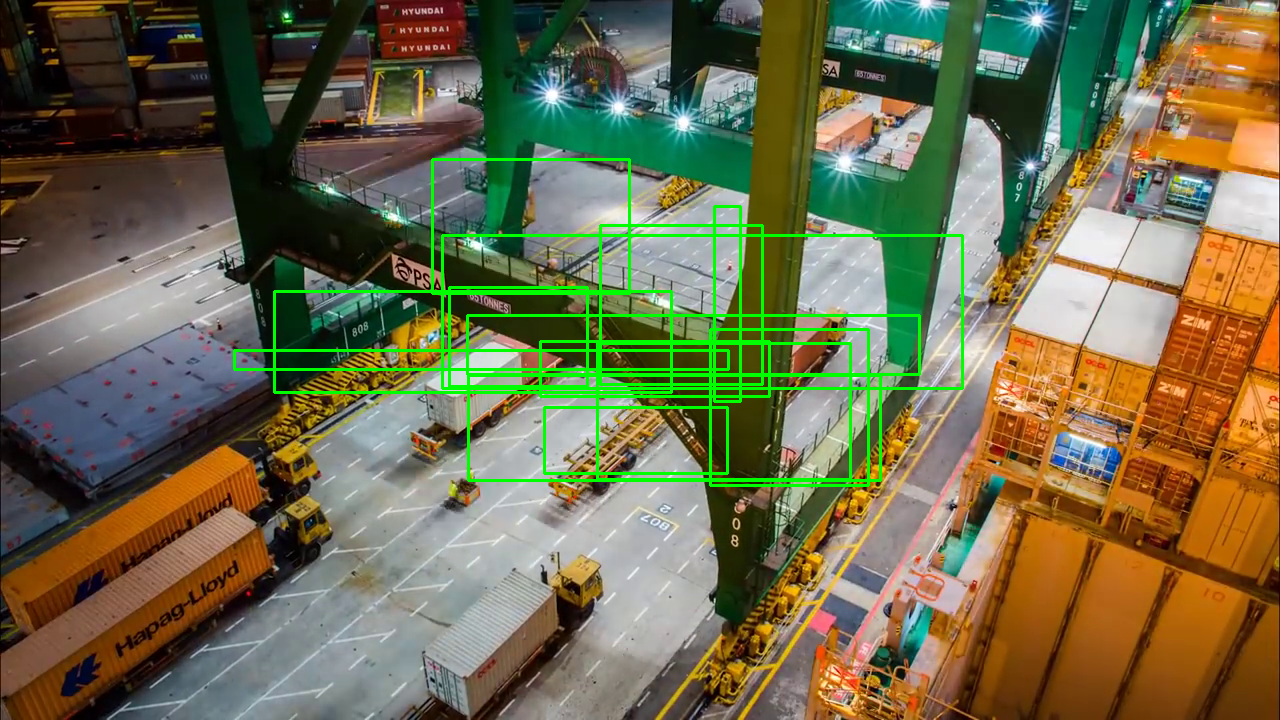
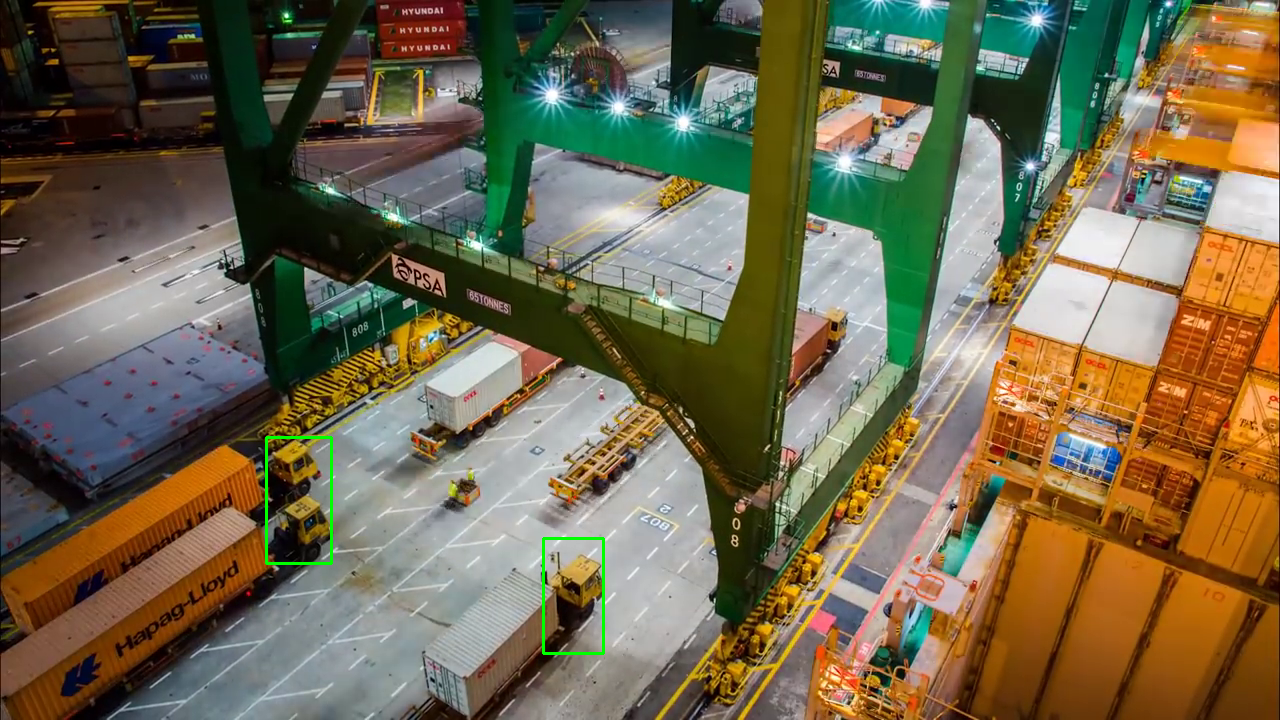
images added, models worked, readme updated with model inference code

diff --git a/congestion-cargo-yards/main.py b/congestion-cargo-yards/main.py
@@ -77,9 +77,14 @@ def build_argparser():
     parser.add_argument("-asp", "--aspect", help="", type=bool, default=False)
     parser.add_argument("-it", "--is_threshold", help="", type=bool, default=False)
     parser.add_argument("-gs", "--grayscale", help="", type=bool, default=False)
-    args.add_argument("-iout", "--iou_threshold", help="Optional. Intersection over union threshold for overlapping "
+    parser.add_argument("--dict_export", help="", type=bool, default=False)
+    parser.add_argument("--keep_aspect_ratio", help="", type=bool, default=True)
+    parser.add_argument("--yolo", help="", type=bool, default=False)
+    parser.add_argument("-iout", "--iou_threshold", help="Optional. Intersection over union threshold for overlapping "
             "detections filtering", default=0.4, type=float)
-    args.add_argument("-t", "--prob_threshold", help="Optional. Probability threshold for detections filtering",
+    parser.add_argument("--relative_overlap_area", help="Optional. IoU relative overlap area", default=0.4, type=float)
+    parser.add_argument("--relative_union_area", help="Optional. IoU relative union area", default=0.4, type=float)
+    parser.add_argument("-t", "--prob_threshold", help="Optional. Probability threshold for detections filtering",
             default=0.5, type=float)
     
     return parser
@@ -99,29 +104,51 @@ def calculate_threshold(frame, result, args, width, height):
     r = (result.flatten() > args.threshold).astype(bool)
     return np.sum(r)
 
+def finalize_draw_boxes(boxes, frame, args):
+    iou = []
+    for ii, box_1 in enumerate(boxes):
+        for box_2 in boxes[ii+1:]:
+            _ratio, _num, _denom = intersection_over_union(
+                dict(zip(['xmin', 'ymin', 'xmax', 'ymax'], box_1)), 
+                dict(zip(['xmin', 'ymin', 'xmax', 'ymax'], box_2)))
+            iou.append([_ratio, _num, _denom])
+    iou = np.array(iou)
+    iou[:,1] /= iou[:,1].max()
+    iou[:,2] /= iou[:,2].max()
+    idx = np.where((iou[:,0] >= args.iou_threshold) & (iou[:,1] <= args.relative_overlap_area) \
+        & (iou[:,2] <= args.relative_union_area))[0]
+    idx = np.floor(1 + np.sqrt(1+idx*2*4)) / 2
+    idx = np.unique(idx).astype(np.int32)
+    print(idx)
+    boxes = np.array(boxes)
+    for box in boxes[idx]:
+        xmin, ymin, xmax, ymax = box
+        cv2.rectangle(frame, (xmin, ymin), (xmax, ymax), args.c, args.th)
+
+    return frame
+
 def draw_boxes(frame, result, args, width, height):
     confs = []
-    result = result.reshape(1, 425, 13, 13)
-    for i in range(13):
-        for j in range(13):
-            boxes = result[0,:,i,j]: # Output shape is 1x1x100x7
-            boxes = boxes.reshape(-1,85)
-            for box in boxes:
-                conf = box[4]
-                if conf >= args.pt:
-                    xmin = int(box[0] * width)
-                    ymin = int(box[1] * height)
-                    xmax = int(box[0] * width + box[3] * width)
-                    ymax = int(box[1] * height + box[2] * width)
-                    confs.append(conf)
-                    cv2.rectangle(frame, (xmin, ymin), (xmax, ymax), args.c, args.th)
+    boxes = []
+    for box in result[0][0]:
+        conf = box[2]
+        if conf >= args.pt:
+            xmin = int(box[3] * width)
+            ymin = int(box[4] * height)
+            xmax = int(box[5] * width)
+            ymax = int(box[6] * height)
+            confs.append(conf)
+            boxes.append((xmin, ymin, xmax, ymax))
             
-    return frame, confs
+    return frame, confs, boxes
 
 def infer_on_batch_result(infer_network, frames, args, width, height, request_id=0, 
 conf=False, threshold=False, aspect=False):
     ### TODO: Get the results of the inference request ###
-    results = infer_network.extract_output(request_id=request_id)
+    if args.dict_export:
+        results = infer_network.extract_outputs_dict(request_id=request_id)
+    else:
+        results = infer_network.extract_output(request_id=request_id)
     output_shape = 200
     thrs = []
     confidences = []
@@ -134,8 +161,12 @@ conf=False, threshold=False, aspect=False):
         if threshold:
             thr = calculate_threshold(frame, results[ii,:,:,:], args, width, height)
             thrs.append(thr)
+        elif args.yolo:
+            frame, confs = draw_yolo_bounding_boxes(results, infer_network.network, 
+            infer_network.get_input_shape()[1], infer_network.get_input_shape()[0], frame, args)
         else:
-            frame, confs = draw_boxes(frame, results[ii,:,:,:], args, width, height)
+            frame, confs, boxes = draw_boxes(frame, results[ii,:,:,:], args, width, height)
+            frame = finalize_draw_boxes(boxes, frame, args)
         frames[ii] = frame
         confidences = np.append(confidences, confs).tolist()
     
@@ -146,7 +177,10 @@ conf=False, threshold=False, aspect=False):
 def infer_on_multi_result(infer_network, frames, args, width, height, request_id=0, 
 conf=False, threshold=False, aspect=False):
     ### TODO: Get the results of the inference request ###
-    results = infer_network.extract_output(request_id=request_id)
+    if args.dict_export:
+        results = infer_network.extract_outputs_dict(request_id=request_id)
+    else:
+        results = infer_network.extract_output(request_id=request_id)
     output_shape = 200
     thrs = []
     confidences = []
@@ -160,9 +194,13 @@ conf=False, threshold=False, aspect=False):
             thr = calculate_threshold(frame, results[:,:,output_shape*ii:output_shape*ii+output_shape,:], 
             args, width, height)
             thrs.append(thr)
+        elif args.yolo:
+            frame, confs = draw_yolo_bounding_boxes(results, infer_network.network, 
+            infer_network.get_input_shape()[1], infer_network.get_input_shape()[0], frame, args)
         else:
-            frame, confs = draw_boxes(frame, results[:,:,output_shape*ii:output_shape*ii+output_shape,:], 
+            frame, confs, boxes = draw_boxes(frame, results[:,:,output_shape*ii:output_shape*ii+output_shape,:], 
         args, width, height)
+            frame = finalize_draw_boxes(boxes, frame, args)
         frames[ii] = frame
         confidences = np.append(confidences, confs).tolist()
     
@@ -173,7 +211,10 @@ conf=False, threshold=False, aspect=False):
 def infer_on_result(infer_network, frame, args, width, height, request_id=0, 
 conf=False, threshold=False, aspect=False):
     ### TODO: Get the results of the inference request ###
-    results = infer_network.extract_output(request_id=request_id)
+    if args.dict_export:
+        results = infer_network.extract_outputs_dict(request_id=request_id)
+    else:
+        results = infer_network.extract_output(request_id=request_id)
     output_shape = 200
     thrs = []
     confidences = []
@@ -186,8 +227,12 @@ conf=False, threshold=False, aspect=False):
         thr = calculate_threshold(frame, results[:,:,:,:], 
         args, width, height)
         thrs.append(thr)
+    elif args.yolo:
+        frame, confs = draw_yolo_bounding_boxes(results, infer_network.network, 
+        infer_network.get_input_shape()[3], infer_network.get_input_shape()[2], frame, args)
     else:
-        frame, confs = draw_boxes(frame, results, args, width, height)
+        frame, confs, boxes = draw_boxes(frame, results, args, width, height)
+        frame = finalize_draw_boxes(boxes, frame, args)
         confidences = np.append(confidences, confs).tolist()
     
     return frame, thrs, confidences

diff --git a/congestion-cargo-yards/yolov3_module.py b/congestion-cargo-yards/yolov3_module.py
@@ -1,3 +1,6 @@
+import numpy as np
+import cv2
+
 class YoloParams:
     # ------------------------------------------- Extracting layer parameters ------------------------------------------
     # Magic numbers are copied from yolo samples
@@ -63,8 +66,8 @@ def parse_yolo_region(predictions, resized_image_shape, original_im_shape, param
         y = (row + y) / params.side
         # Value for exp is very big number in some cases so following construction is using here
         try:
-            width = exp(width)
-            height = exp(height)
+            width = np.exp(width)
+            height = np.exp(height)
         except OverflowError:
             continue
         # Depends on topology we need to normalize sizes by feature maps (up to YOLOv3) or by input shape (YOLOv3)
@@ -115,7 +118,7 @@ def intersection_over_union(box_1, box_2):
     area_of_union = box_1_area + box_2_area - area_of_overlap
     if area_of_union == 0:
         return 0
-    return area_of_overlap / area_of_union
+    return area_of_overlap / area_of_union, area_of_overlap, area_of_union
 
 """
 https://github.com/nscalo/OpenVINO-YOLOV4/blob/master/object_detection_demo_yolov3_async.py
@@ -125,6 +128,7 @@ def draw_yolo_bounding_boxes(outputs, net, input_width, input_height, frame, arg
                             args.keep_aspect_ratio)
     objects = filter_objects(objects, args.iou_threshold, args.prob_threshold)
     origin_im_size = frame.shape[:-1]
+    confs = []
     for obj in objects:
         # Validation bbox of detected object
         obj['xmax'] = min(obj['xmax'], origin_im_size[1])
@@ -137,7 +141,10 @@ def draw_yolo_bounding_boxes(outputs, net, input_width, input_height, frame, arg
         # det_label = labels_map[obj['class_id']] if labels_map and len(labels_map) >= obj['class_id'] else \
         #     str(obj['class_id'])
 
+        confs.append(obj['confidence'])
         cv2.rectangle(frame, (obj['xmin'], obj['ymin']), (obj['xmax'], obj['ymax']), color, 2)
         # cv2.putText(frame,
         #             "#" + det_label + ' ' + str(round(obj['confidence'] * 100, 1)) + ' %',
         #             (obj['xmin'], obj['ymin'] - 7), cv2.FONT_HERSHEY_COMPLEX, 0.6, color, 1)
+
+    return frame, confs

diff --git a/congestion-cargo-yards/inference.py b/congestion-cargo-yards/inference.py
@@ -126,4 +126,4 @@ class Network:
         '''
         Returns a list of the results for the output layer of the network.
         '''
-        return self.exec_network.requests[request_id].outputs
+        return self.exec_network.requests[request_id].output_blobs

diff --git a/congestion-cargo-yards/README.md b/congestion-cargo-yards/README.md
@@ -56,13 +56,19 @@ Serving 'frozen_inference_graph.pb' at http://0.0.0.0:8080
 
 ```bash
 
-root@37f902f9e5aa:/home/project/congestion-cargo-yards# python3 main.py -m /home/project/models/intel/person-vehicle-bike-detection-crossroad-0078/FP32/person-vehicle-bike-detection-crossroad-0078.xml -vds "/home/project/images/automated-queue.png" -d CPU -bt 1 --batch_size 1 -pt 0.11
+root@37f902f9e5aa:/home/project/congestion-cargo-yards# python3 main.py -m /home/project/models/intel/person-vehicle-bike-detection-crossroad-0078/FP32/person-vehicle-bike-detection-crossroad-0078.xml -vds "/home/project/images/automated-queue.png" -d CPU -bt 1 --batch_size 1 -pt 0.11 --relative_overlap_area 1.0 --relative_union_area 1.0 --iou_threshold 0.1
 
 ```
 
 ![../images/automated-queue.0.png](../images/automated-queue.0.png)
 
+```bash
 
+root@37f902f9e5aa:/home/project/congestion-cargo-yards# python3 main.py -m /home/project/models/intel/person-vehicle-bike-detection-crossroad-yolov3-1020/FP32/person-vehicle-bike-detection-crossroad-yolov3-1020.xml -vds "/home/project/images/automated-queue.png" -d CPU -bt 1 --batch_size 1 -pt 0.11 --prob_threshold 0.05 --iou_threshold 1.0 --yolo 1 --dict_export 1
+
+```
+
+![../images/automated-queue.0.yolo.png](../images/automated-queue.0.yolo.png)
 
 ## Convert TF Model to OpenVINO
 
